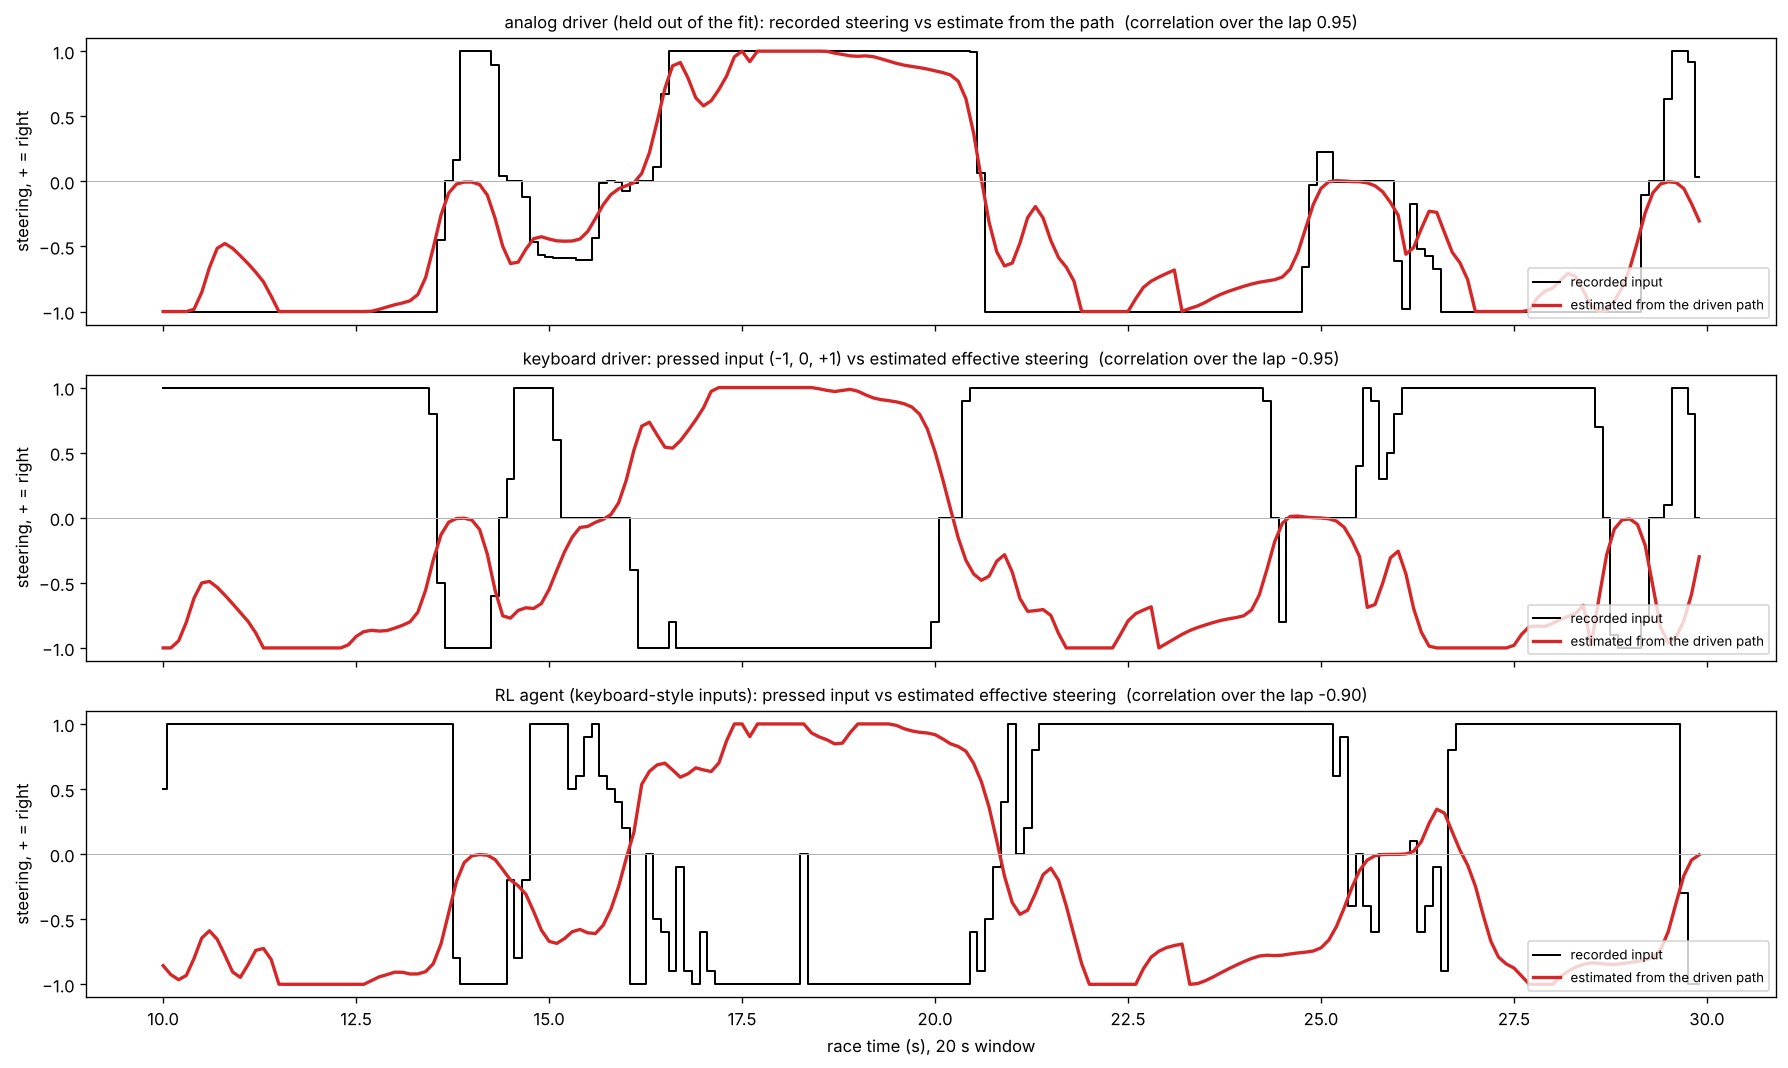
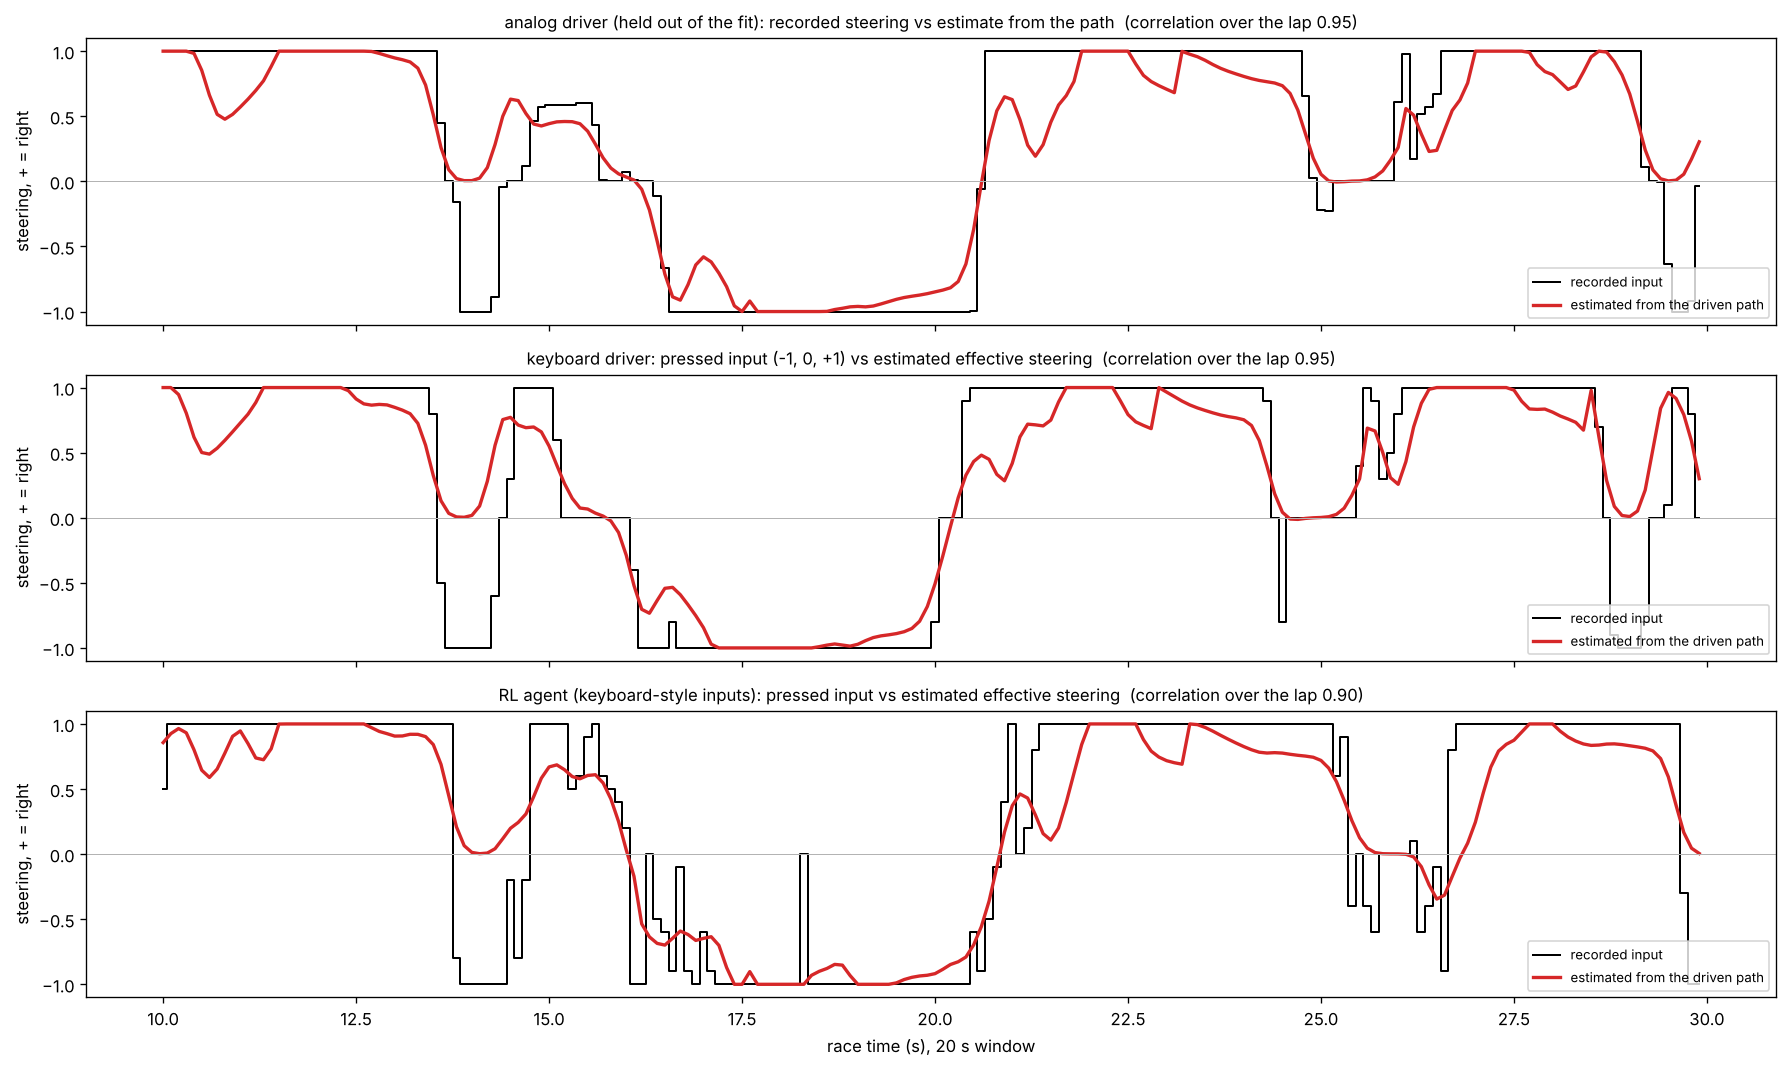
Use + = right for replay analog steering (opposite sign to the stored value) and refit the steering estimate
Claude-Session: https://claude.ai/code/session_01WsyqPERiKa97b3MzVXkdxj

diff --git a/linesight/scripts/extract_style_vectors.py b/linesight/scripts/extract_style_vectors.py
@@ -198,7 +198,8 @@ def _steer_signal(control_entries, race_start_ms: int, n: int):
     Steering command u in [-1, 1] on the 10 ms grid, held between events, plus the input type.
     Replays store steering either as digital SteerLeft/SteerRight presses or as 'Steer' events
     (analog value for pad / wheel drivers, -1/0/+1 for keyboard drivers on newer replays).
-    The sign convention between the two encodings is not needed: only |u| and its changes are used.
+    + = right in both. (In the replay files the analog value is positive for a left turn, checked on 40 keyboard laps against the
+    path they drove; the features in corners.csv only use |u| and its changes, so they do not depend on the sign.)
     """
     steer = sorted([(e.time - race_start_ms, decode_analog_steer(e)) for e in control_entries if e.event_name == "Steer"])
     if steer:
@@ -207,7 +208,7 @@ def _steer_signal(control_entries, race_start_ms: int, n: int):
             while ptr < len(steer) and steer[ptr][0] <= i * PERIOD_MS:
                 cur = steer[ptr][1]
                 ptr += 1
-            u[i] = cur
+            u[i] = -cur  # replay 'Steer' values have the opposite sign to SteerLeft/SteerRight: this makes + = right, as for keyboard presses
         analog = any(min(abs(v), abs(abs(v) - 1.0)) > 0.02 for _, v in steer)
         return np.clip(u, -1.0, 1.0), "analog" if analog else "digital"
     left = _timeline(control_entries, "SteerLeft", race_start_ms, n)

diff --git a/linesight/scripts/tools/steering_from_replay.py b/linesight/scripts/tools/steering_from_replay.py
@@ -7,7 +7,7 @@ the inputs are only left / straight / right, and the game smooths them into a re
 What can be recovered is the effective steering: how much steering the path implies at that speed.
 
 Model: u(t) ~ g(speed) * path_curvature(t + LAG), fitted on replays with analog steering (where the true value is stored) and clipped to [-1, 1].
-Positive u = right, as in the analog replay events.
+Positive u = right, the same for keyboard and analog replays.
 
   fit:      python scripts/tools/steering_from_replay.py fit ../style_vectors/Hockolicious/laps.csv ../replays --out scripts/tools/steering_model.json
   estimate: python scripts/tools/steering_from_replay.py estimate some.Replay.Gbx
